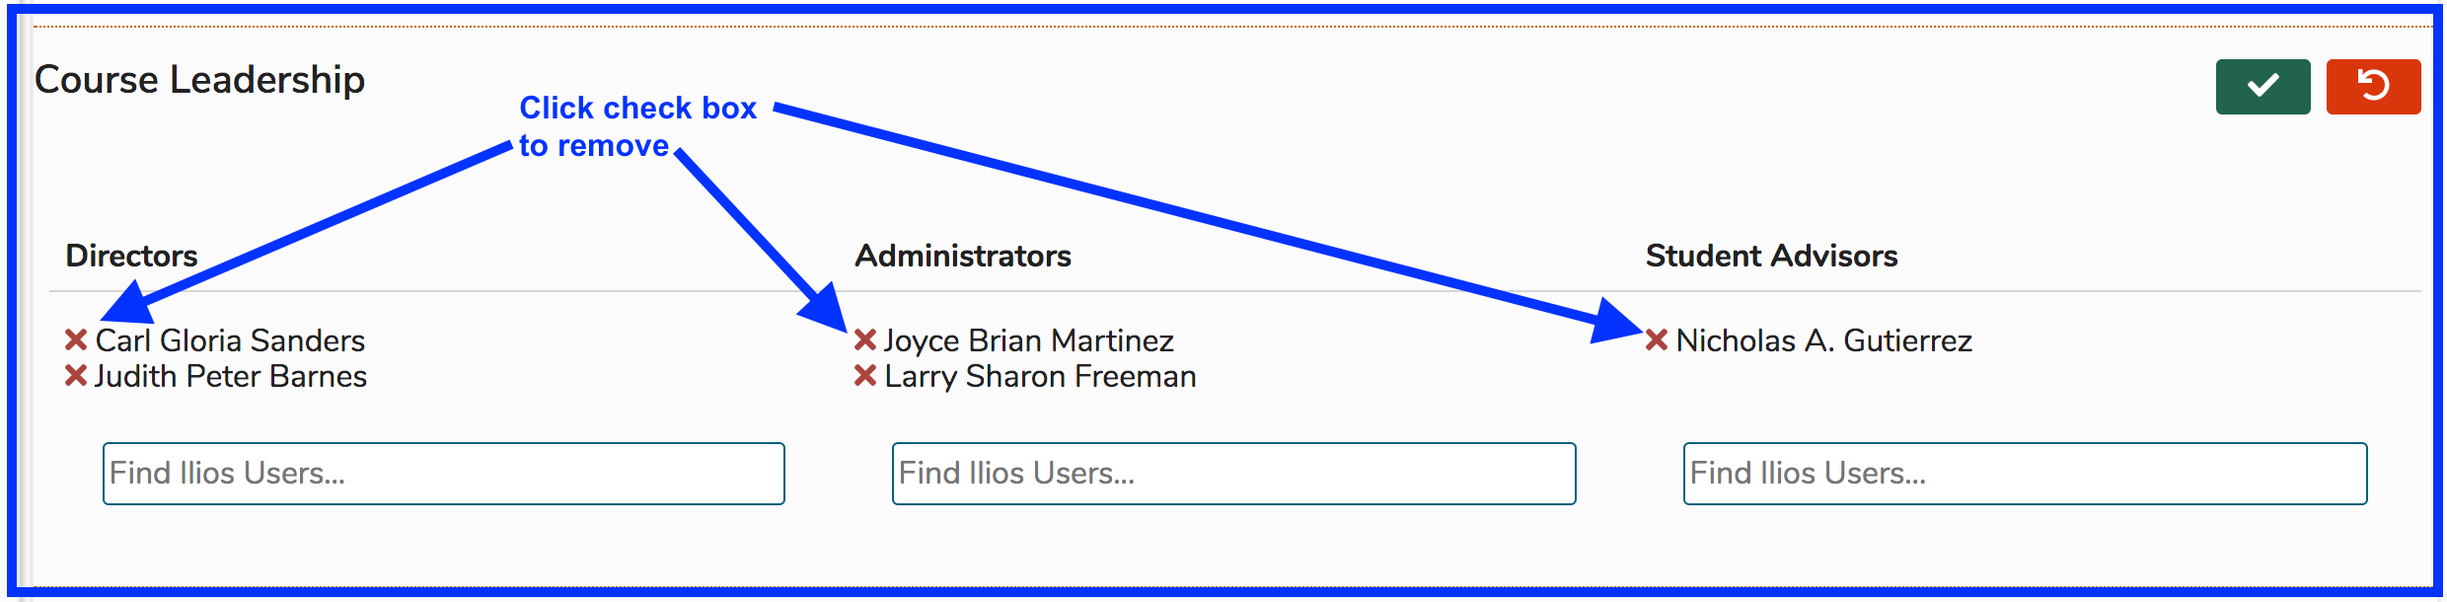
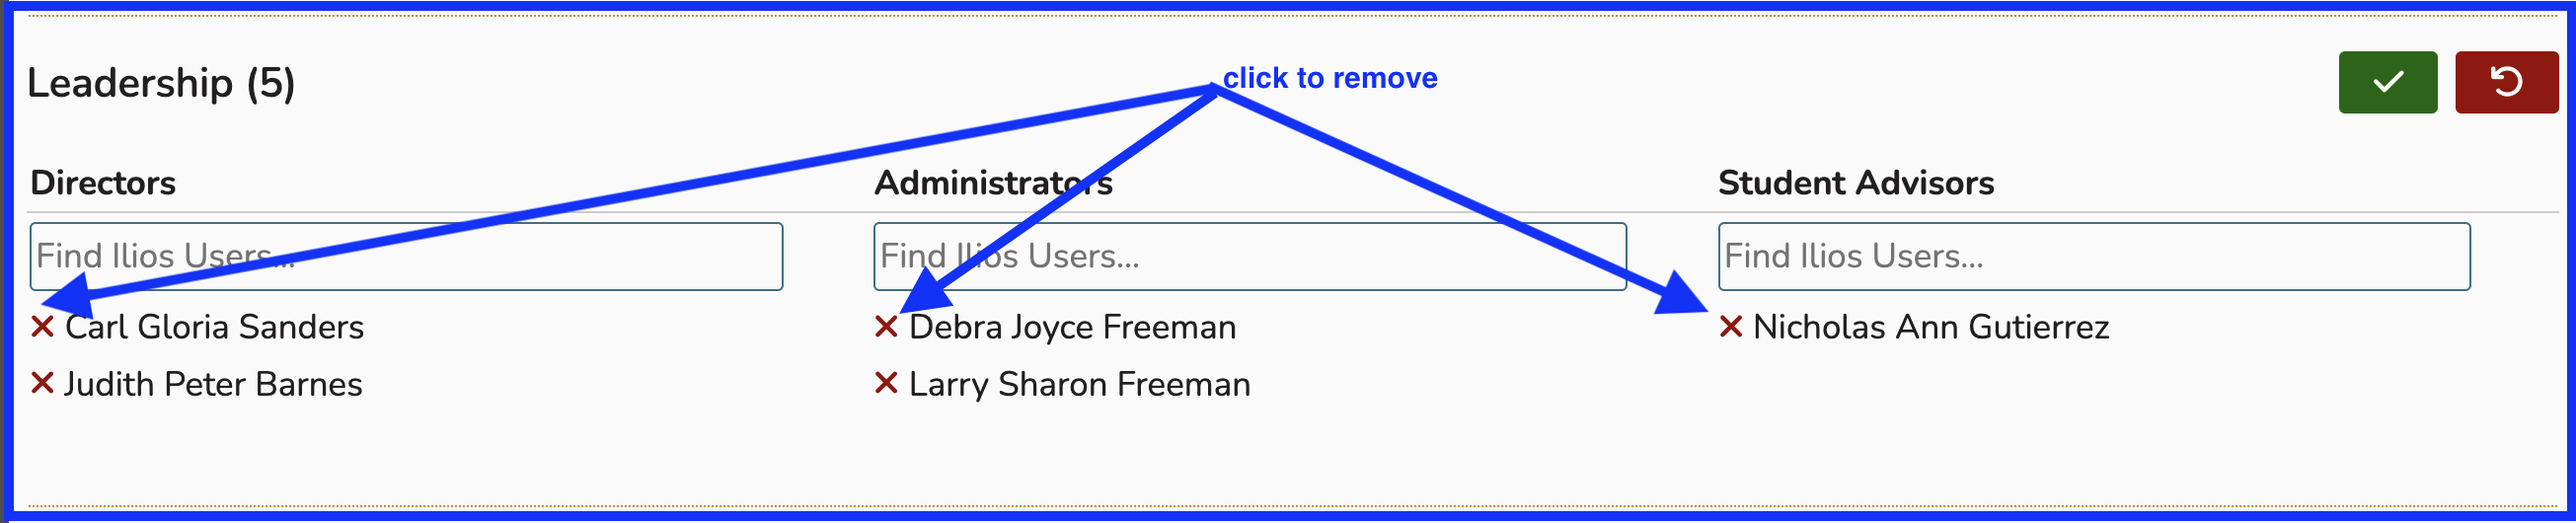
image replaced - slight text update too

diff --git a/courses-and-sessions/courses/course-leadership.md b/courses-and-sessions/courses/course-leadership.md
@@ -25,7 +25,7 @@ Clicking on Course Leadership opens up the details for this Course and allows mo
 ![click to manage](../../images/course_leadership/click_to_manage.png)
 
 
-After clicking "Manage Leadership" as shown above, users can be added or removed from these roles. To remove Course Directors, Administrators, or Student Advisors, simply click the red "X" to remove the users from the list and then save using the green Save button in the upper right corner (or Cancel).
+After clicking "Manage Leadership" as shown above, users can be added or removed from these roles. To remove Directors, Administrators, or Student Advisors, simply click the red "X" to remove the users from the list and then save using the green Save button in the upper right corner (or Cancel).
 
 ![click to remove](../../images/course_leadership/click_to_remove.png)
 
